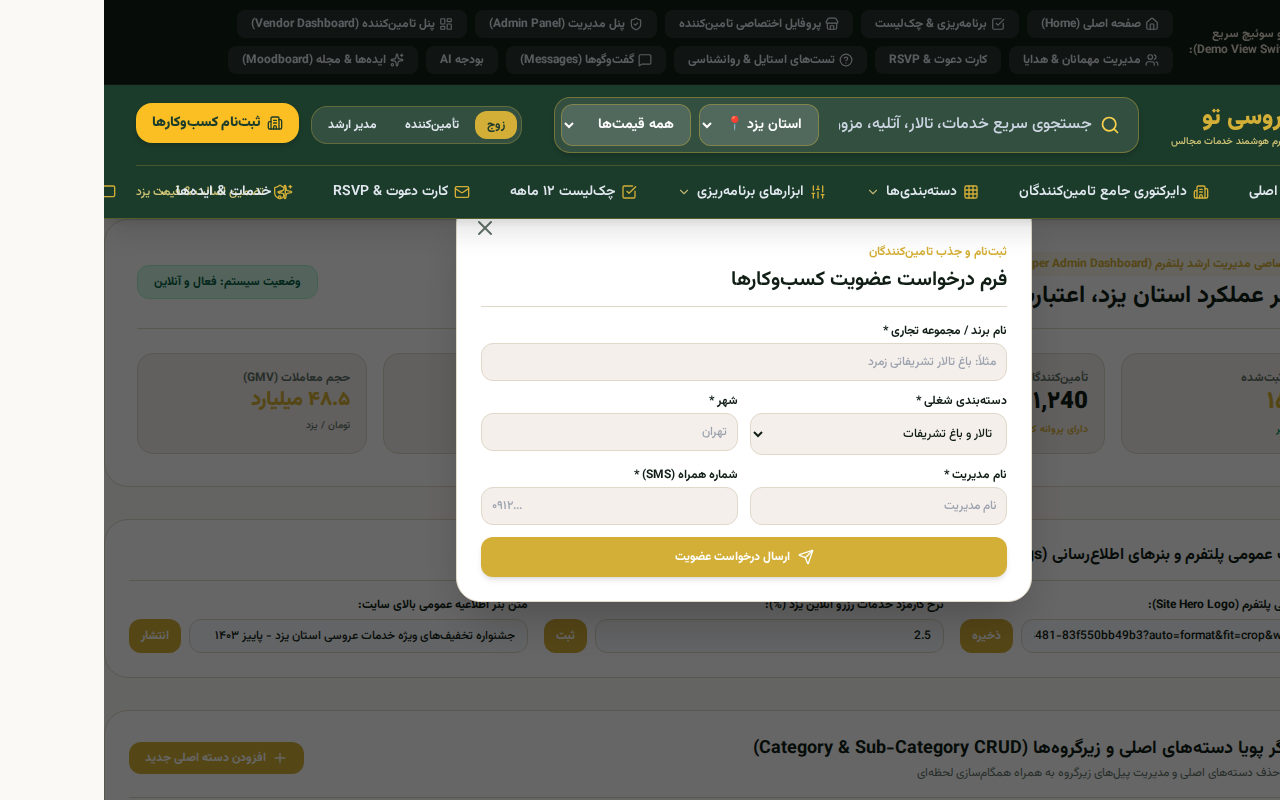
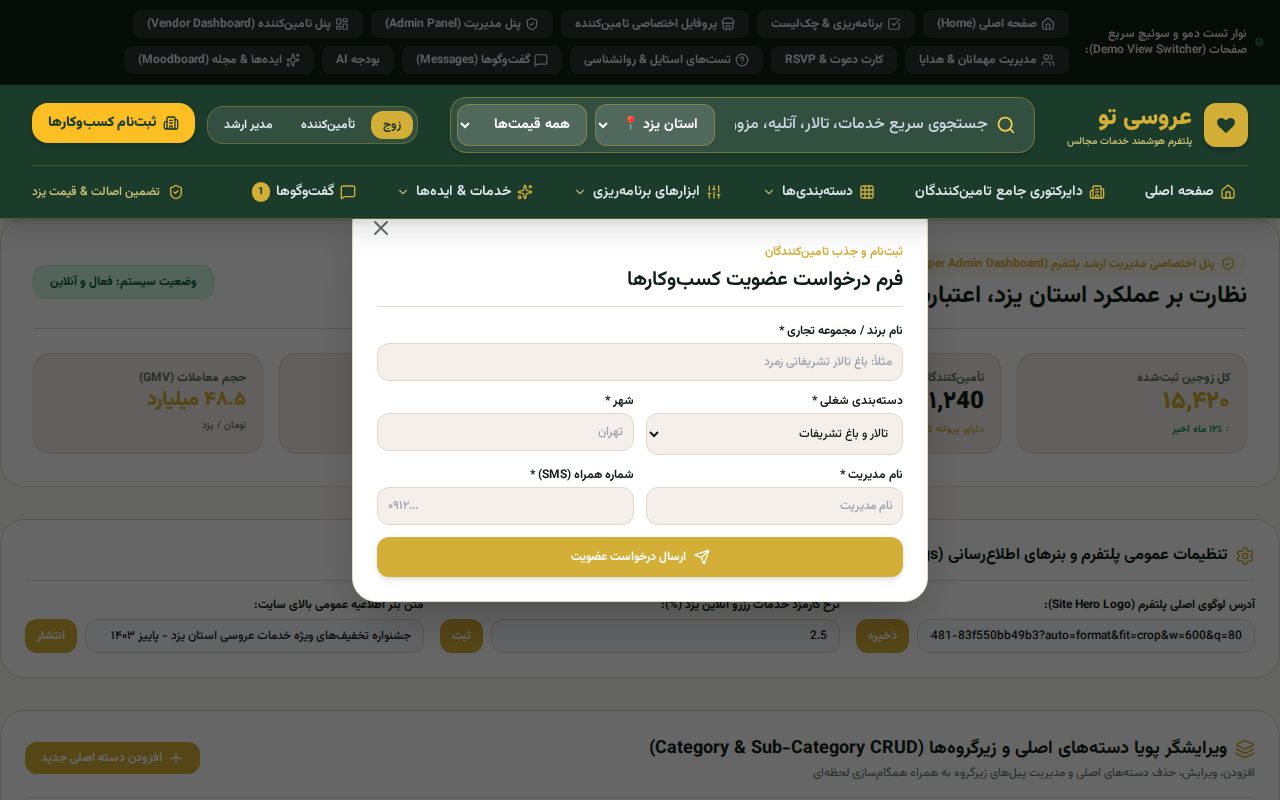
style: remove redundant standalone header navigation pills
- Remove direct checklist and digital invitation standalone header navigation buttons from index.html.
- Keep features fully accessible inside the Planning Tools dropdown menu.

diff --git a/index.html b/index.html
@@ -364,16 +364,6 @@
             </div>
           </div>
 
-          <!-- Direct Navigation Pills -->
-          <button onclick="switchTab('planner')" class="px-3 py-1.5 rounded-xl transition-colors hover:text-[#D4AF37] hover:bg-white/10 flex items-center gap-1.5 shrink-0">
-            <i data-lucide="check-square" class="w-4 h-4 text-[#D4AF37]"></i>
-            <span>چکلیست ۱۲ ماهه</span>
-          </button>
-
-          <button onclick="switchTab('invitation')" class="px-3 py-1.5 rounded-xl transition-colors hover:text-[#D4AF37] hover:bg-white/10 flex items-center gap-1.5 shrink-0">
-            <i data-lucide="mail" class="w-4 h-4 text-[#D4AF37]"></i>
-            <span>کارت دعوت & RSVP</span>
-          </button>
 
           <!-- Dropdown 2: خدمات & ایدهها -->
           <div class="relative group shrink-0">
